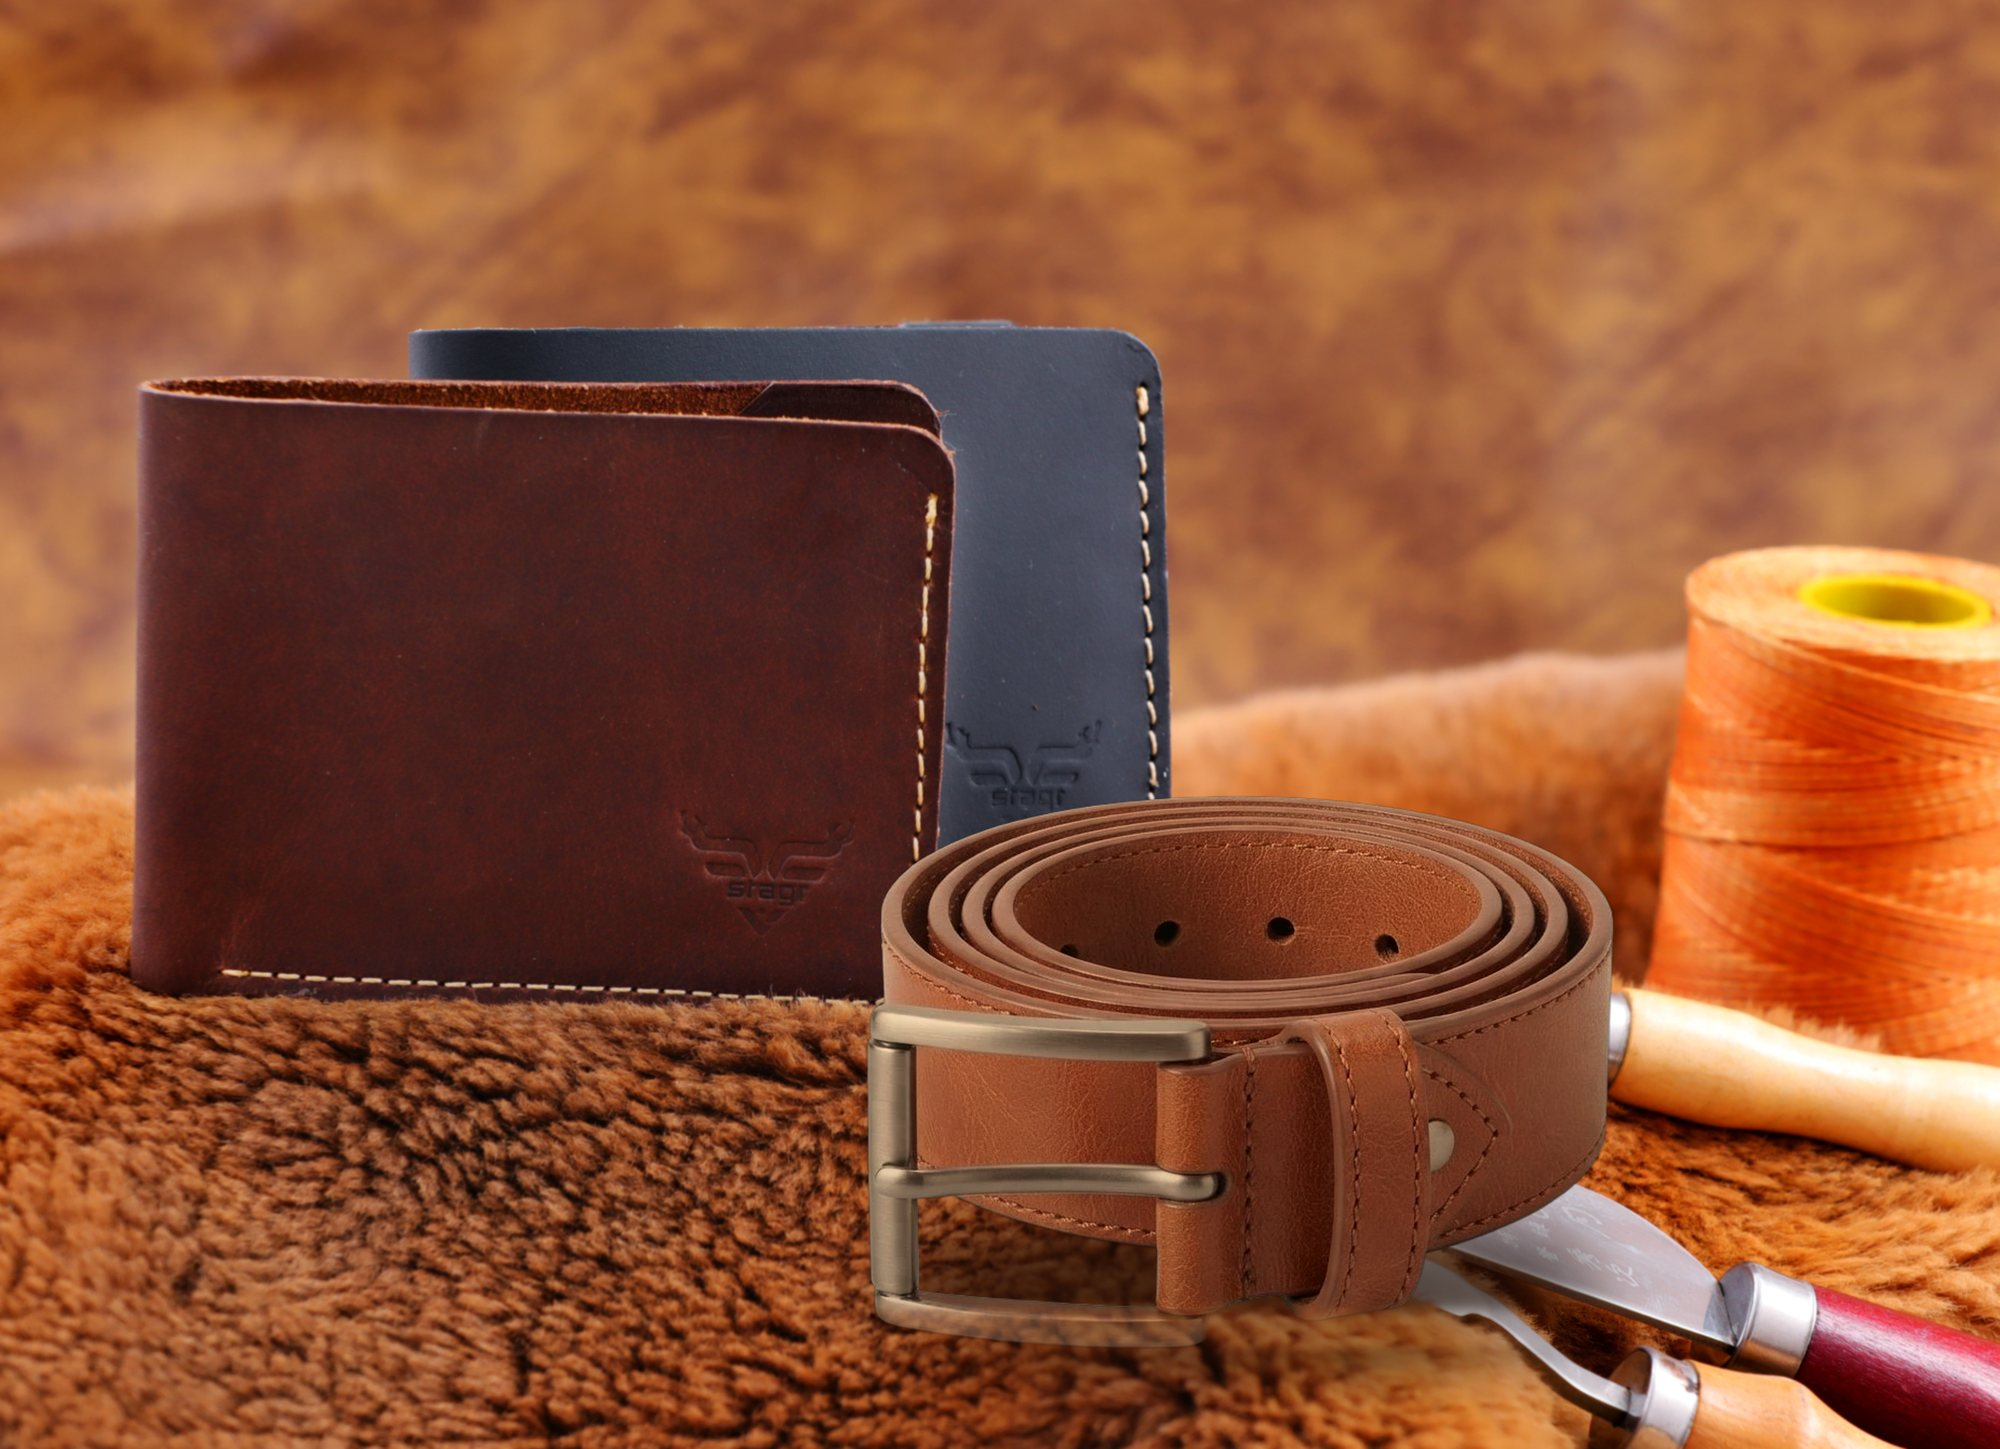
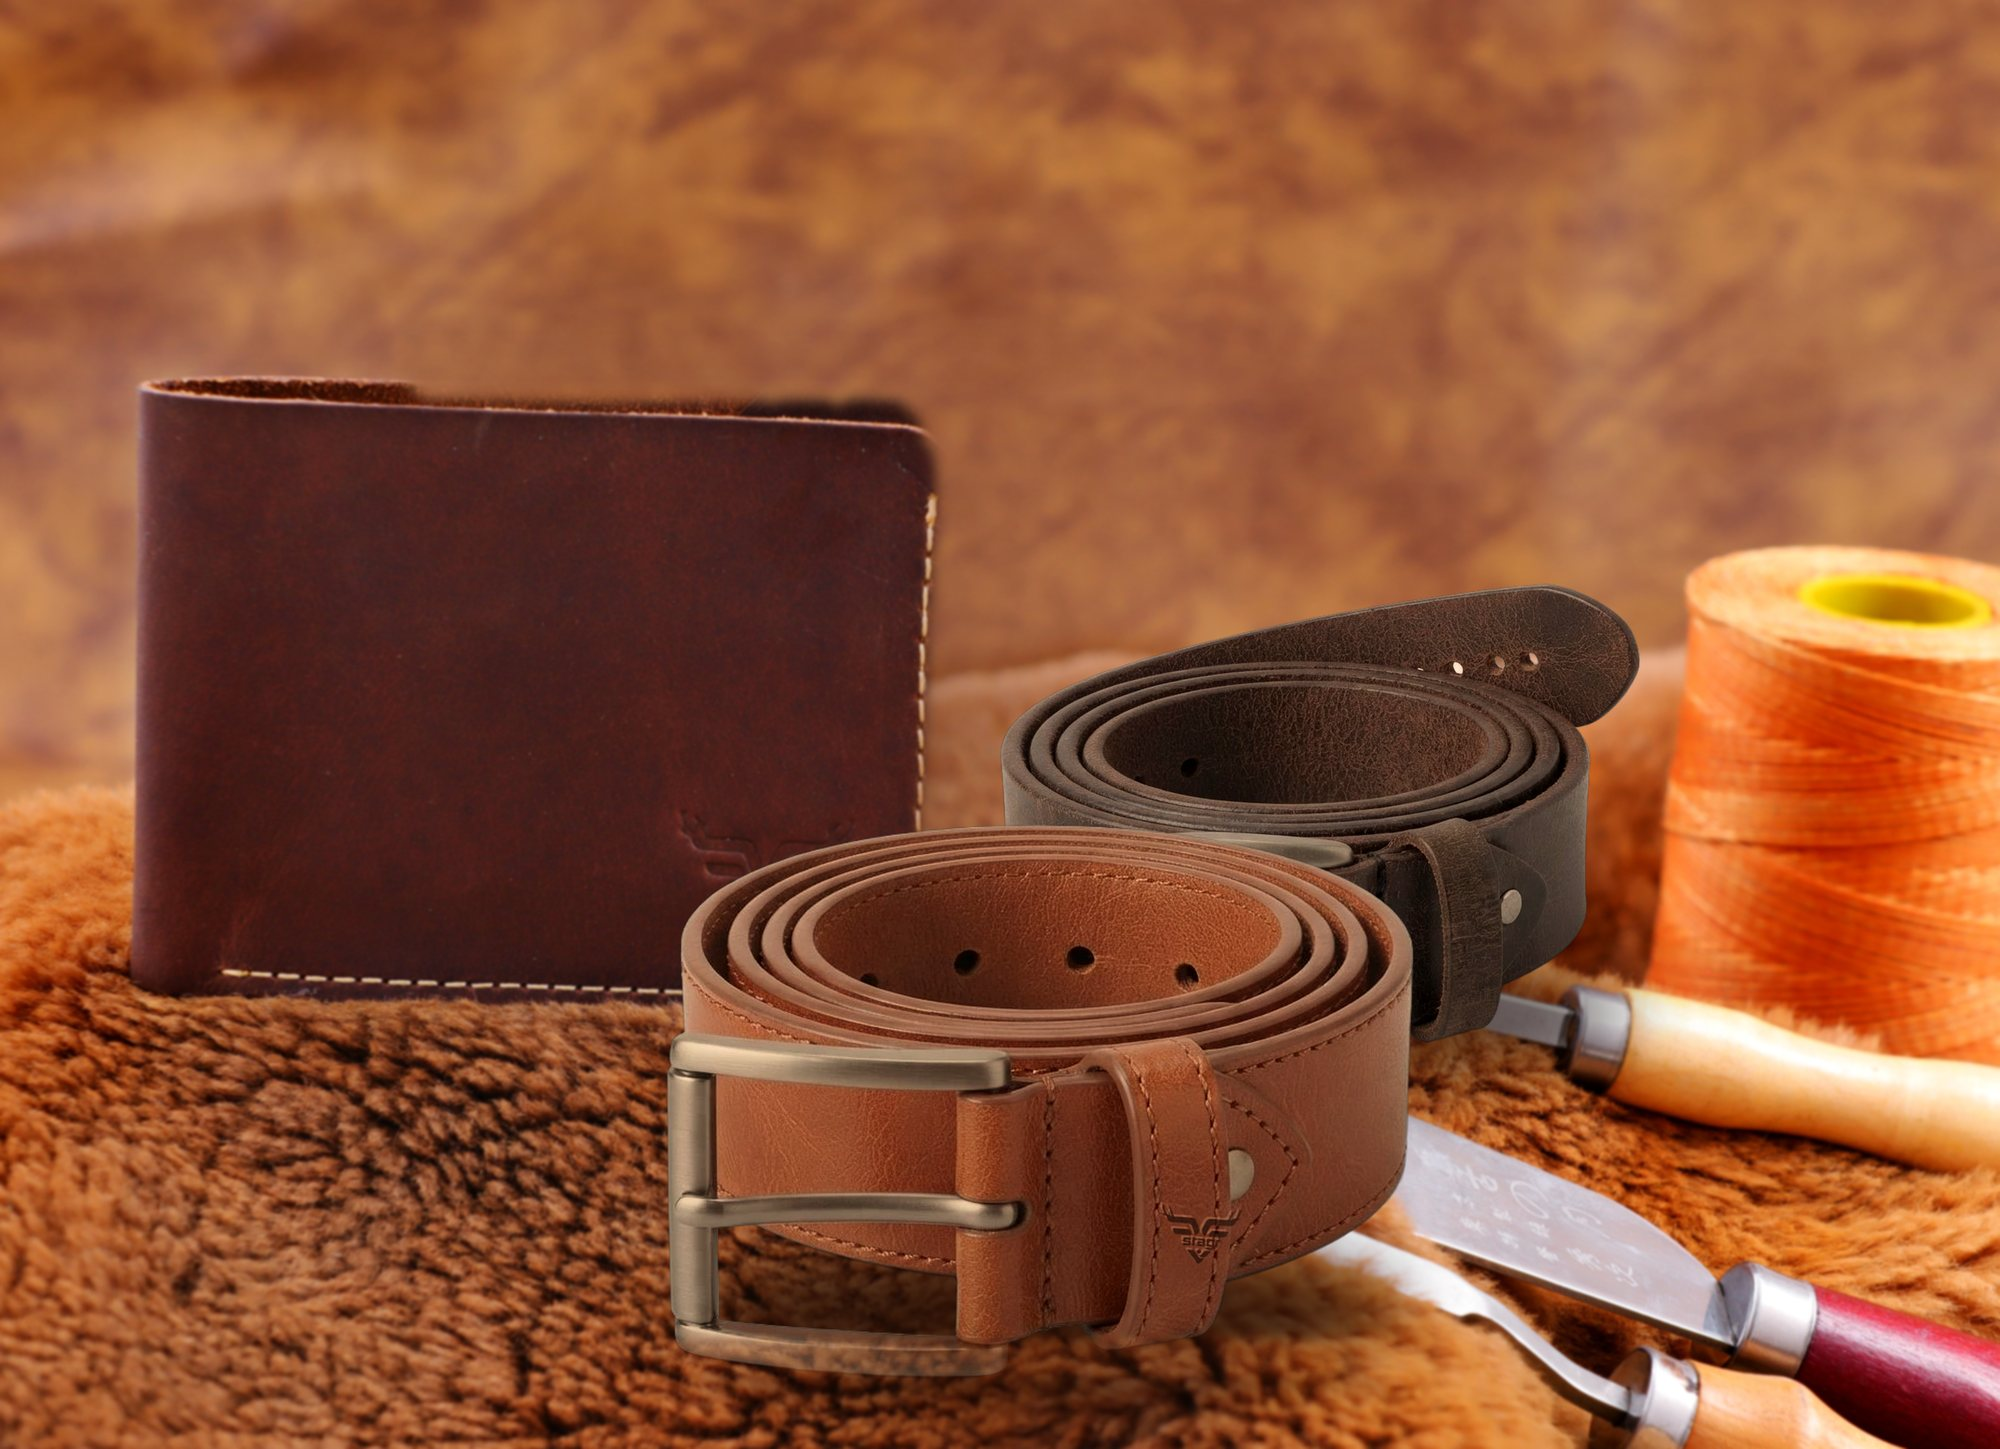
Belt-and-wallet composite: two belts, Stagr mark, second wallet removed cleanly
The sherpa composite now shows the Outlaw coil behind and the Monarch coil
in front with the Stagr lockup debossed on its face, the Regal wallet softened
at the side. The second wallet in the source frame is removed by rebuilding
the backdrop behind it (texture borrowed from clean textile at the same rows,
base tone interpolated from the surroundings), which removes the patch seam
of the previous version. The compose script lives in build/composite.py so the
asset can be regenerated.

Claude-Session: https://claude.ai/code/session_01CLwPVwMwmN8S3n6jifWgUp

Changed region(s): [[0.186, 0.2174, 0.837, 0.9938]]

diff --git a/new-site/build/composite.py b/new-site/build/composite.py
@@ -1,0 +1,114 @@
+"""Compose assets/hero/belt-wallet-sherpa.jpg.
+
+Starts from the Regal wallet frame (source-images/Kignsman/Regal/KRW_1438.JPG), removes the
+second (black) wallet by rebuilding the backdrop behind it, softens the frame slightly so the wallet
+sits back, then places two belt cutouts in front: the Outlaw coil behind and the Monarch coil in
+front with the Stagr mark debossed on its face. Run from new-site/:
+
+    python3 build/composite.py            # writes the asset + 2000/1200/800 sizes
+    python3 build/composite.py --debug    # also writes build/_composite-debug/*.jpg and stops
+"""
+from PIL import Image, ImageOps, ImageFilter, ImageDraw, ImageEnhance
+import numpy as np, scipy.ndimage as ndi, scipy.sparse as sp, scipy.sparse.linalg as spl, sys
+import os
+S='build/_composite-debug/'
+os.makedirs(S,exist_ok=True)
+DEBUG='--debug' in sys.argv
+
+def deboss(belt, mark, cx, cy, frac, rot, strength=.5):
+    bw,bh=belt.size; mw=int(bw*frac); m=mark.resize((mw,int(mark.height*mw/mark.width)),Image.LANCZOS).rotate(rot,expand=True,resample=Image.BICUBIC)
+    ma=np.array(m)[...,3].astype(float)/255; layer=np.zeros((bh,bw),float); x,y=int(cx*bw)-m.width//2,int(cy*bh)-m.height//2
+    layer[y:y+m.height,x:x+m.width]=ma; rim=np.clip(np.roll(np.roll(layer,-2,0),-2,1)-layer,0,1)
+    arr=np.array(belt).astype(float)
+    for c in range(3): arr[...,c]=np.clip(arr[...,c]*(1-strength*layer)+40*rim,0,255)
+    return Image.fromarray(arr.astype(np.uint8))
+def grade(belt, tint, fall):
+    r,g,b,a=belt.split(); arr=np.asarray(Image.merge('RGB',(r,g,b))).astype(float)*np.array(tint)
+    arr=arr*np.linspace(1.0,fall,arr.shape[0])[:,None,None]; rgb=ImageEnhance.Contrast(Image.fromarray(np.clip(arr,0,255).astype(np.uint8))).enhance(1.06)
+    return Image.merge('RGBA',(*rgb.split(),a))
+def shadow(bg, belt, x0, y0, strength=200, squash=.3):
+    al=np.array(belt)[...,3]; ys,xs=np.where(al>40); bx0,by0,bx1,by1=x0+xs.min(),y0+ys.min(),x0+xs.max(),y0+ys.max()
+    sh=Image.new('RGBA',bg.size,(0,0,0,0)); d=ImageDraw.Draw(sh); h=int((by1-by0)*squash); sy=by1-h*.35
+    d.ellipse([bx0+(bx1-bx0)*.02, sy-h/2, bx1-(bx1-bx0)*.02, sy+h/2], fill=(30,12,4,strength)); bg.alpha_composite(sh.filter(ImageFilter.GaussianBlur(int(bg.width*.018)))); return (bx0,by0,bx1,by1)
+
+# ---------- source + removal of the second (black) wallet ----------
+mark=Image.open('../stagr-lockup-dark.png').convert('RGBA')
+src=ImageOps.exif_transpose(Image.open('../source-images/Kignsman/Regal/KRW_1438.JPG')).convert('RGB')
+W,H=src.size; c=src.crop((int(W*.08),0,W,H)); W,H=c.size
+X=lambda f:int(W*f); Y=lambda f:int(H*f)
+A=np.asarray(c).astype(np.float32)
+R,G,B=A[...,0],A[...,1],A[...,2]; mx=A.max(2)
+# black wallet: dark + neutral, inside its bounding box
+black=(mx<110)&((R-B)<8)
+bbox=np.zeros((H,W),bool); bbox[Y(.16):Y(.68),X(.17):X(.62)]=True
+black&=bbox
+black=ndi.binary_closing(black,iterations=12)
+black=ndi.binary_fill_holes(black)
+black=ndi.binary_opening(black,iterations=6)          # drop specks
+lab,n=ndi.label(black); sizes=ndi.sum(black,lab,range(1,n+1)); black=lab==(1+int(np.argmax(sizes)))
+hole=ndi.binary_dilation(black,iterations=52)          # ~22px margin over the stitching/edge
+band=ndi.binary_dilation(hole,iterations=30)&~hole      # ring where the donor must agree with the photo
+
+# donor: fine texture only, borrowed from clean textile at the same rows (rows above the brown wallet
+# come from the far right, the column beside it from just right of the wallet); the base tone is then
+# interpolated smoothly from the surrounding backdrop so no donor patch can show through.
+def shift(a,dx):
+    o=np.empty_like(a); o[:, :W-dx]=a[:, dx:]; o[:, W-dx:]=a[:, W-1:W]; return o
+D1=shift(A,X(.40)); D2=shift(A,X(.22))
+t=np.clip((np.arange(H)-Y(.272))/(Y(.292)-Y(.272)),0,1)[:,None,None]; t=t*t*(3-2*t)
+D=D1*(1-t)+D2*t
+sc=8; h,w=H//sc,W//sc
+def down(a): return np.asarray(Image.fromarray(np.clip(a,0,255).astype(np.uint8)).resize((w,h),Image.BOX)).astype(np.float32)
+def up(a): return np.asarray(Image.fromarray(np.clip(a+128,0,255).astype(np.uint8)).resize((W,H),Image.BICUBIC)).astype(np.float32)-128
+def mblur(img,valid,sig=5):
+    v=valid.astype(np.float32)[...,None]; num=ndi.gaussian_filter(img*v,(sig,sig,0)); den=ndi.gaussian_filter(v,(sig,sig,0))
+    return num/np.maximum(den,1e-3)
+validA=~ndi.binary_dilation(black,iterations=62)
+validA[Y(.21):Y(.67), X(.05):X(.505)]=False; validA[Y(.40):Y(.53), X(.50):X(.63)]=False
+vD1=shift(validA.astype(np.float32)[...,None],X(.40))[...,0]; vD2=shift(validA.astype(np.float32)[...,None],X(.22))[...,0]
+validD=(vD1*(1-t[...,0])+vD2*t[...,0])>.5
+dm=lambda b: np.asarray(Image.fromarray(b.astype(np.uint8)*255).resize((w,h),Image.BOX))>127
+Alow=mblur(down(A),dm(validA)); Dlow=mblur(down(D),dm(validD))
+maskL=lambda b,th: np.asarray(Image.fromarray(b.astype(np.uint8)*255).resize((w,h),Image.BOX))>th
+bandL=maskL(band,100); holeL=maskL(hole,60)
+rects=np.zeros((h,w),bool)
+rects[int(h*.21):int(h*.67), int(w*.05):int(w*.505)]=True   # brown wallet
+rects[int(h*.40):int(h*.53), int(w*.50):int(w*.63)]=True    # tool tip
+valid=bandL&~rects
+roi=ndi.binary_dilation(holeL|rects,iterations=6)
+unk=roi&~valid
+idx=-np.ones((h,w),int); ids=np.where(unk.ravel())[0]; idx.ravel()[ids]=np.arange(len(ids)); N=len(ids)
+rows,cols,vals=[],[],[]; rhs=np.zeros((N,3),np.float32)
+ui,uj=np.where(unk)
+for k,(i,j) in enumerate(zip(ui,uj)):
+    rows.append(k); cols.append(k); vals.append(4.0)
+    for di,dj in ((1,0),(-1,0),(0,1),(0,-1)):
+        ii,jj=i+di,j+dj
+        if ii<0 or jj<0 or ii>=h or jj>=w: vals[-1]-=1; continue
+        if unk[ii,jj]: rows.append(k); cols.append(idx[ii,jj]); vals.append(-1.0)
+        else: rhs[k]+=Alow[ii,jj]
+M=sp.csr_matrix((vals,(rows,cols)),shape=(N,N))
+sol=np.stack([spl.spsolve(M,rhs[:,ch]) for ch in range(3)],1)
+L=Alow.copy(); L[unk]=sol
+fill=np.clip(D-up(Dlow-128)+up(L-128),0,255)
+m=ndi.gaussian_filter(hole.astype(np.float32),16)[...,None]
+base=Image.fromarray(np.clip(A*(1-m)+fill*m,0,255).astype(np.uint8))
+p=base.copy(); p.thumbnail((1400,1400)); p.save(S+'base.jpg',quality=85)
+if DEBUG:
+    p=base.copy(); p.thumbnail((1400,1400)); p.save(S+'base.jpg',quality=85)
+    ov=A.copy(); ov[hole]=ov[hole]*.4+np.array([0,255,0])*.6; pp=Image.fromarray(ov.astype(np.uint8)); pp.thumbnail((1400,1400)); pp.save(S+'mask.jpg',quality=80); print('debug saved'); sys.exit()
+
+# ---------- composite ----------
+bg=base.filter(ImageFilter.GaussianBlur(2.6)).convert('RGBA')
+bB=grade(Image.open('assets/cutouts/outlaw-1.webp').convert('RGBA'),[1.03,.94,.84],.8)
+w_=X(.34); bB=bB.resize((w_,int(bB.height*w_/bB.width)),Image.LANCZOS); xB,yB=X(.66)-bB.width//2,Y(.57)-bB.height//2
+shadow(bg,bB,xB,yB,170); bg.alpha_composite(bB,(xB,yB))
+bA=Image.open('assets/cutouts/monarch-1.webp').convert('RGBA'); bA=deboss(bA,mark,.70,.72,.10,-4,.48); bA=grade(bA,[1.04,.93,.80],.8)
+w_=X(.40); bA=bA.resize((w_,int(bA.height*w_/bA.width)),Image.LANCZOS); xA,yA=X(.52)-bA.width//2,Y(.76)-bA.height//2
+box=shadow(bg,bA,xA,yA,210); bg.alpha_composite(bA,(xA,yA))
+fur=base.convert('RGBA'); mk=Image.new('L',bg.size,0); md=ImageDraw.Draw(mk)
+md.rectangle([box[0],box[3]-int((box[3]-box[1])*.07),box[2],box[3]],fill=120); mk=mk.filter(ImageFilter.GaussianBlur(14)); bg=Image.composite(fur,bg,mk)
+out=bg.convert('RGB'); out.save('assets/hero/belt-wallet-sherpa.jpg',quality=86,optimize=True,progressive=True)
+for s in (2000,1200,800):
+    o=out.copy(); o.thumbnail((s,s),Image.LANCZOS); o.save(f'assets/hero/belt-wallet-sherpa-{s}.jpg',quality=84,optimize=True,progressive=True)
+p=out.copy(); p.thumbnail((1400,1400)); p.save(S+'preview.jpg',quality=85); print('ok')
